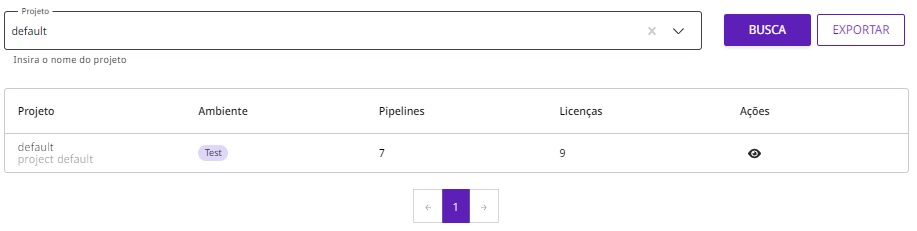
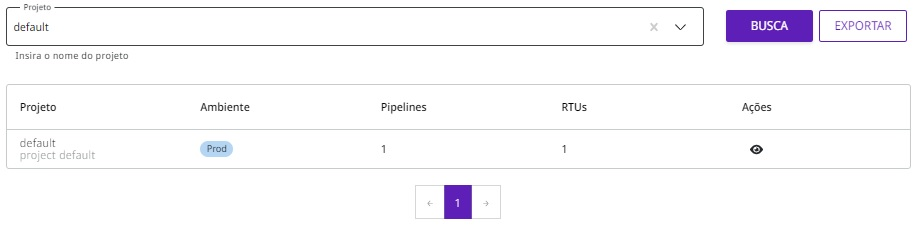
GITBOOK-1121: change request with no subject merged in GitBook

diff --git a/licenciamento/consumo-de-licencas-beta-restrito/consumo-de-licencas-no-modelo-subscription.md b/licenciamento/consumo-de-licencas-beta-restrito/consumo-de-licencas-no-modelo-subscription.md
@@ -1,0 +1,69 @@
+---
+description: >-
+  Saiba mais sobre a página de visualização de seus pipelines subscriptions e
+  seu consumo de RTUs.
+---
+
+# Consumo de Licenças no modelo Subscription
+
+{% hint style="info" %}
+Essa _feature_ está na fase[ Beta Restrito](https://docs.digibee.com/documentation/v/pt-br/geral/programa-beta) e está disponível apenas para clientes selecionados.
+{% endhint %}
+
+O recurso **Consumo de Licenças** agora permite que você rastreie seus _pipelines subscriptions_ e seus _Runtime units_ (RTUs) com facilidade. Você pode obter o número de _pipelines subscriptions_ para o seu _Realm_, bem como o valor total disponível. Além disso, você pode verificar o número de RTUs disponíveis nos ambientes de _test_ e _prod_ do seu _Realm_, para poder analisar e implantar seus _pipelines_ com mais eficiência.
+
+## Visão geral do Consumo de Licenças
+
+No modelo baseado em _Subscription,_ você pode acompanhar seu uso e gerenciar seus _pipelines subscriptions_ e seus _Runtime Units_ (RTUs)  disponíveis em seu _Realm_. Para acessar esse recurso, vá para `Configurações` no canto superior direito e clique em **Consumo de Licenças** em `Licenciamento` no canto inferior esquerdo da página.
+
+Para acessar esta página, você deve ter recebido a permissão de **visualizador de licença** para sua conta de usuário ou um grupo ao qual você pertence.
+
+<figure><img src="../../.gitbook/assets/01 - gif - rtu - port.gif" alt=""><figcaption></figcaption></figure>
+
+### Detalhes
+
+Nesta página, você pode verificar o número de _pipeline subscriptions_ e RTUs em seu _Realm_ para um ambiente escolhido. A lista de contatos dos responsáveis está localizada no lado direito da página. Você pode procurar por um projeto específico pelo nome usando a área de **BUSCA** na parte inferior da página.&#x20;
+
+Além disso, há um botão **EXPORTAR** próximo à barra de pesquisa que fornece um arquivo `CSV` contendo uma lista com nomes de projetos, ambientes em que se encontram, nome do _pipeline_, tamanho implantado, número de réplicas e RTUs usados.
+
+No final da página, uma lista de todos os seus projetos é exibida, incluindo suas informações como nome do projeto, descrição, ambiente, número de _pipelines_ e RTUs usados.
+
+Para ver uma descrição detalhada de cada projeto, clique no ícone **Ações**. A seguir, verifique cada um desses itens nas seções seguintes.
+
+## Painel de consumo
+
+<figure><img src="../../.gitbook/assets/02 - painel - port.jpg" alt=""><figcaption></figcaption></figure>
+
+Nesta seção, você pode selecionar o ambiente para o qual deseja ver o consumo. Use o menu no canto superior esquerdo para fazer sua escolha. Depois de fazer sua escolha, será exibido o número de _pipelines_ (consumidos, disponíveis e contratados), bem como as RTUs associadas.&#x20;
+
+Este painel fornece _insights_ e informações que permitem que você tome decisões sobre a alocação e otimização de recursos.
+
+## Informações do projeto
+
+### Busca
+
+Para visualizar os detalhes de consumo de um determinado projeto, use a função de pesquisa. Selecione o projeto na caixa de pesquisa e clique no botão **BUSCA** para obter seus detalhes. Você também pode exportar a lista de consumo dos projetos para um arquivo `CSV` clicando em **EXPORTAR**.
+
+<figure><img src="../../.gitbook/assets/03 - busca - port.jpg" alt=""><figcaption></figcaption></figure>
+
+Como resultado, você obtém uma lista detalhada de cada consumo dos projetos: nome do projeto e descrição, ambiente, quantidade de _pipelines_ no projeto, quantidade de RTUs utilizadas e um ícone para clicar em **Ações**.
+
+### Ícone Ações
+
+Para ver informações específicas sobre um projeto selecionado, clique no ícone de Ações para abrir uma aba lateral. Depois que os **Detalhes do projeto** estiverem abertos, você poderá visualizar informações sobre cada _pipeline_ associado a esse projeto.
+
+Essas informações incluem o nome do projeto, o ambiente, o nome do _pipeline_, o tamanho da implantação, o número de réplicas e o número de RTUs usados para a implantação.
+
+<figure><img src="../../.gitbook/assets/04 - detalhes projeto - port.jpg" alt=""><figcaption></figcaption></figure>
+
+### Lista de Projetos
+
+Na parte inferior da página, você encontrará uma lista de todos os projetos no ambiente selecionado. Essa lista contém informações como o nome e a descrição do projeto, o ambiente, o número de _pipelines_, o número de RTUs usados e um ícone de Ações.
+
+<figure><img src="../../.gitbook/assets/05 - lista - port.jpg" alt=""><figcaption></figcaption></figure>
+
+## Lista de contatos
+
+No canto superior direito, você encontrará uma lista de contatos contendo os responsáveis pela sua conta. Para enviar um e-mail diretamente a uma pessoa, clique no ícone do e-mail.
+
+<figure><img src="../../.gitbook/assets/06 - contatos - port.jpg" alt=""><figcaption></figcaption></figure>

diff --git a/licenciamento/consumo-de-licencas-beta-restrito.md b/licenciamento/consumo-de-licencas-beta-restrito.md
@@ -16,15 +16,14 @@ Este painel exibe informações sobre a quantidade de _pipelines_ utilizados, qu
 
 Além disso, na parte inferior da página, você encontrará uma lista de projetos pertencentes ao _Realm_ e ao ambiente selecionado, junto com informações sobre cada projeto.
 
-<figure><img src="../../.gitbook/assets/dashboard - geral - port.jpg" alt=""><figcaption></figcaption></figure>
+<figure><img src="../.gitbook/assets/dashboard - geral - port.jpg" alt=""><figcaption></figcaption></figure>
 
 Essa lista exibe informações como o nome e a descrição do projeto, o ambiente em que está localizado, o número de _pipelines_ implantados no projeto e o número de Licenças, RTUs ou Créditos, dependendo do modelo de licenciamento.&#x20;
 
 Você pode ver mais detalhes sobre o projeto clicando no ícone **Ações**.
 
-<figure><img src="../../.gitbook/assets/lista - geral - port.jpg" alt=""><figcaption></figcaption></figure>
+<figure><img src="../.gitbook/assets/lista - geral - port.jpg" alt=""><figcaption></figcaption></figure>
 
 Abaixo estão três seções que explicam em detalhes como o **Consumo de Licenças** funciona para cada modelo de licenciamento. Selecione o modelo sobre o qual deseja saber mais a seguir.
 
-
-
+{% embed url="https://docs.digibee.com/documentation/v/pt-br/licenciamento/consumo-de-licencas-beta-restrito/consumo-de-licencas-no-modelo-pipeline" %}

diff --git a/SUMMARY.md b/SUMMARY.md
@@ -118,8 +118,9 @@
   * [Modelo baseado em Subscription](licenciamento/modelos-de-licenciamento/modelo-baseado-em-subscription.md)
   * [Modelo baseado em Capacity](licenciamento/modelos-de-licenciamento/modelo-baseado-em-capacity.md)
 * [Capacidade e cotas](licenciamento/limites-de-uso.md)
-* [Consumo de Licenças (Beta Restrito)](licenciamento/consumo-de-licencas-beta-restrito/README.md)
+* [Consumo de Licenças (Beta Restrito)](licenciamento/consumo-de-licencas-beta-restrito.md)
   * [Consumo de Licenças no modelo Pipeline](licenciamento/consumo-de-licencas-beta-restrito/consumo-de-licencas-no-modelo-pipeline.md)
+  * [Consumo de Licenças no modelo Subscription](licenciamento/consumo-de-licencas-beta-restrito/consumo-de-licencas-no-modelo-subscription.md)
 
 ## Geral
 
